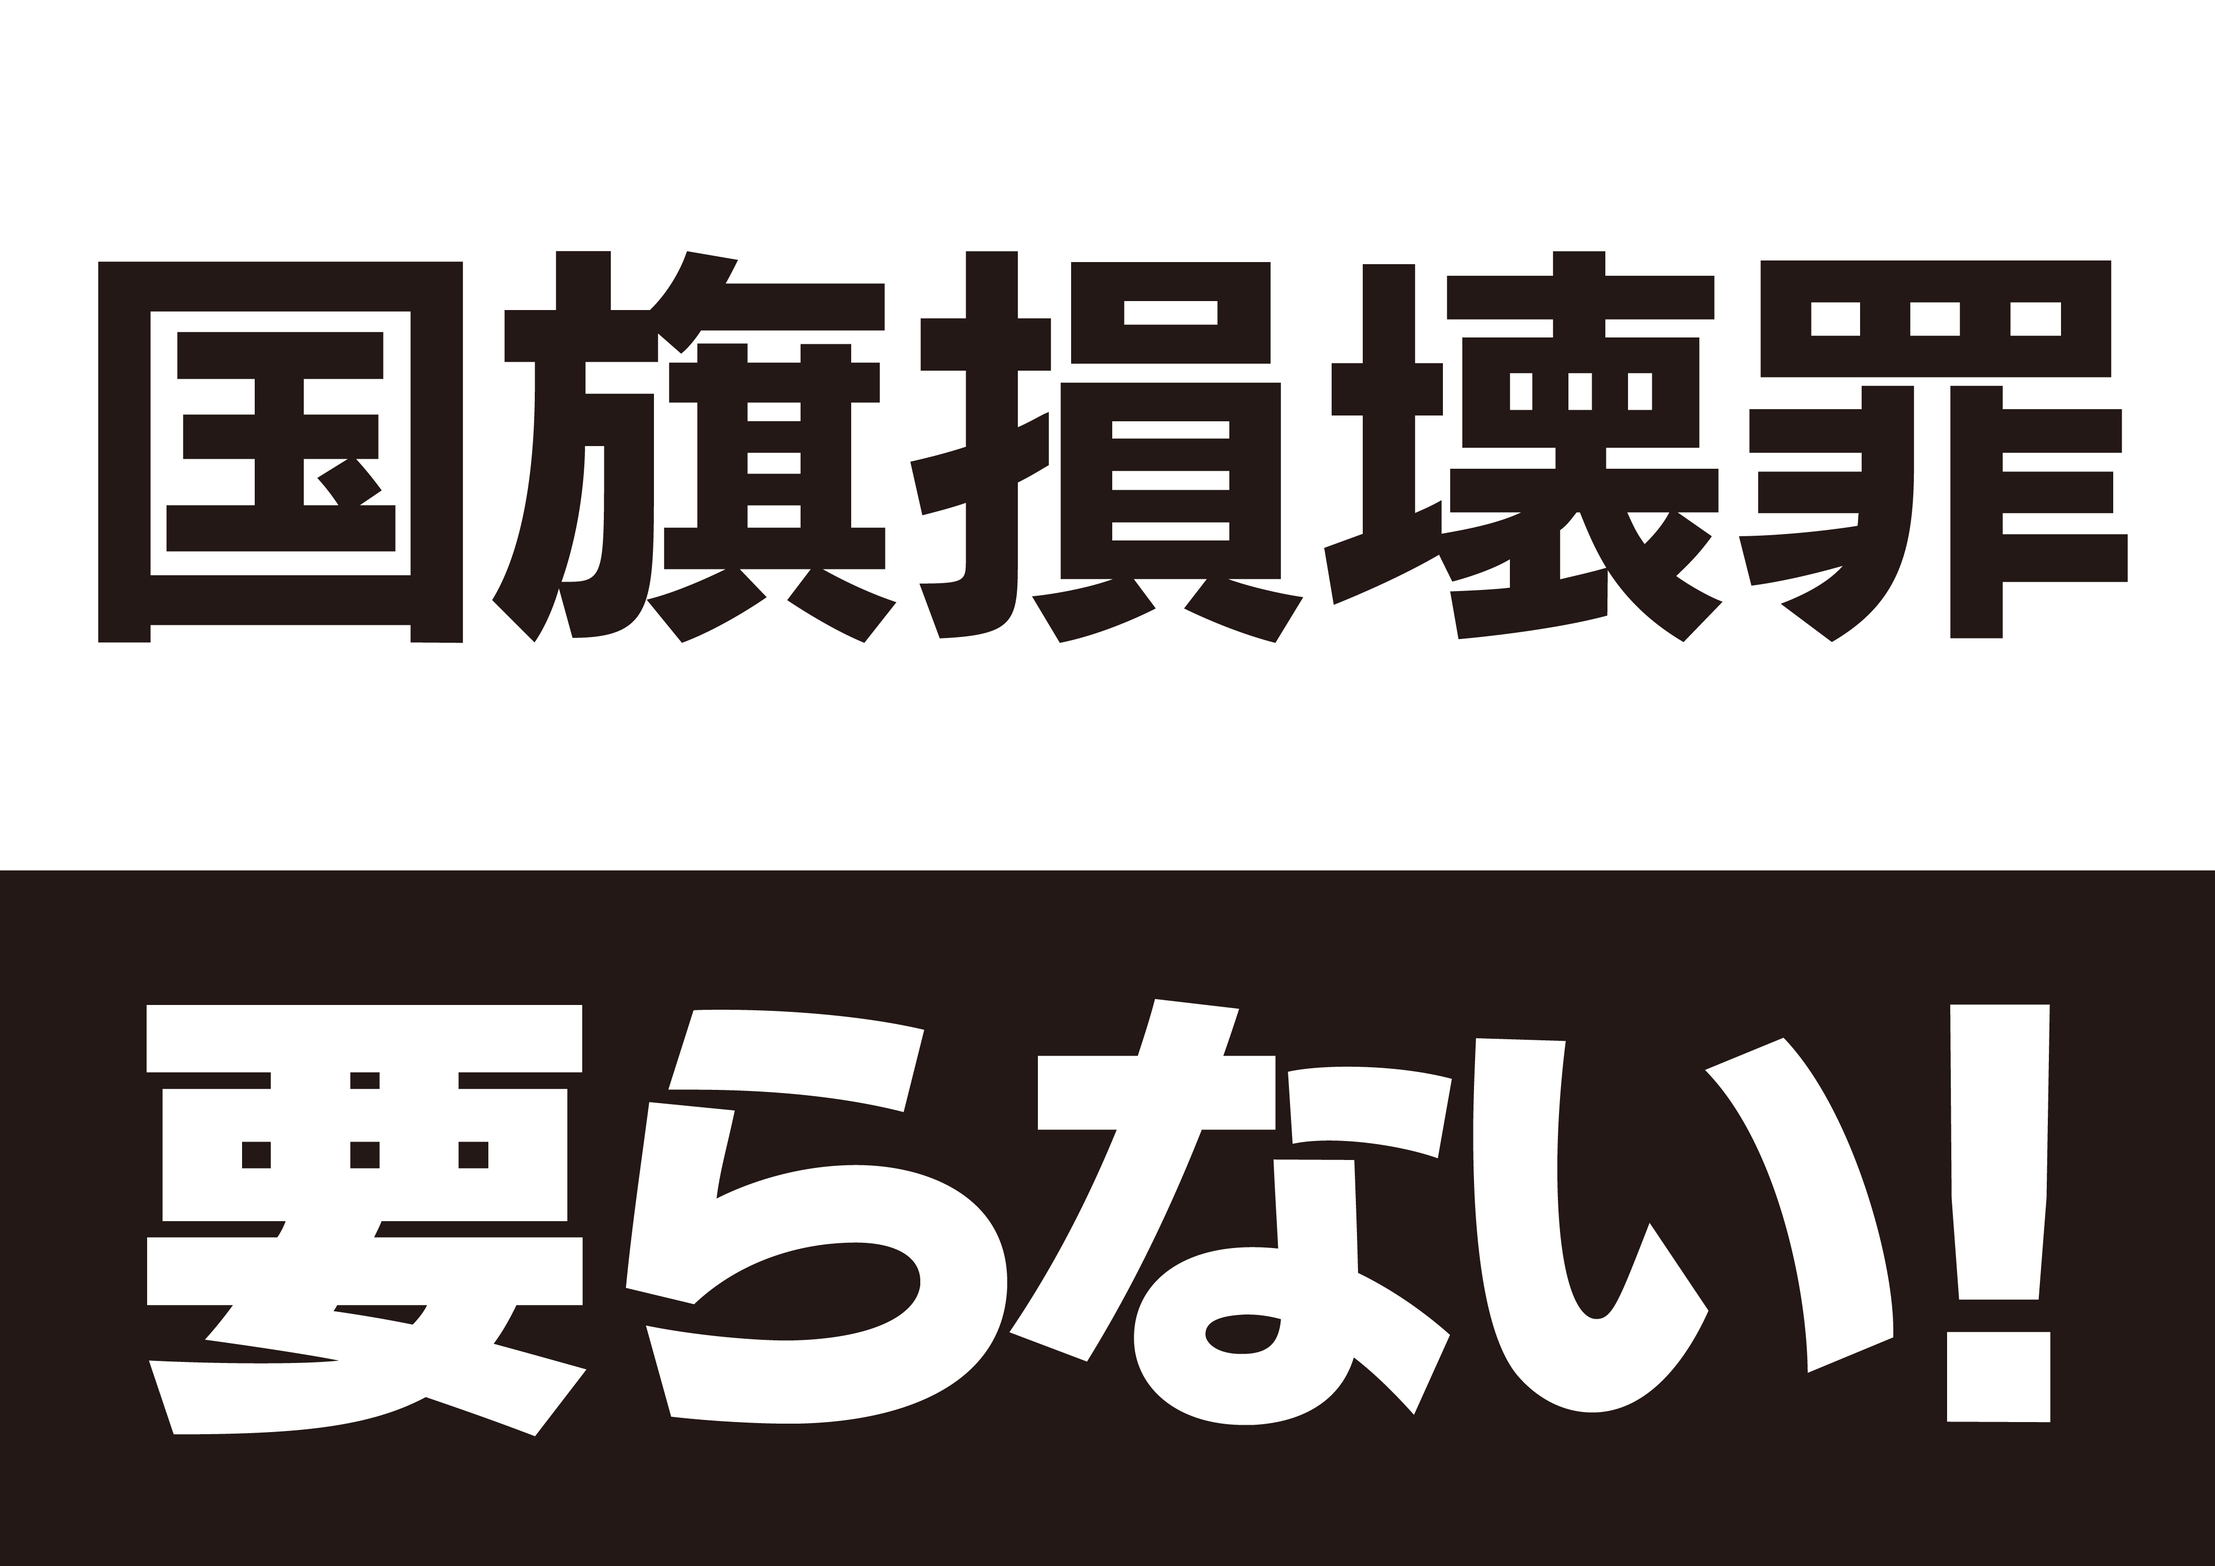
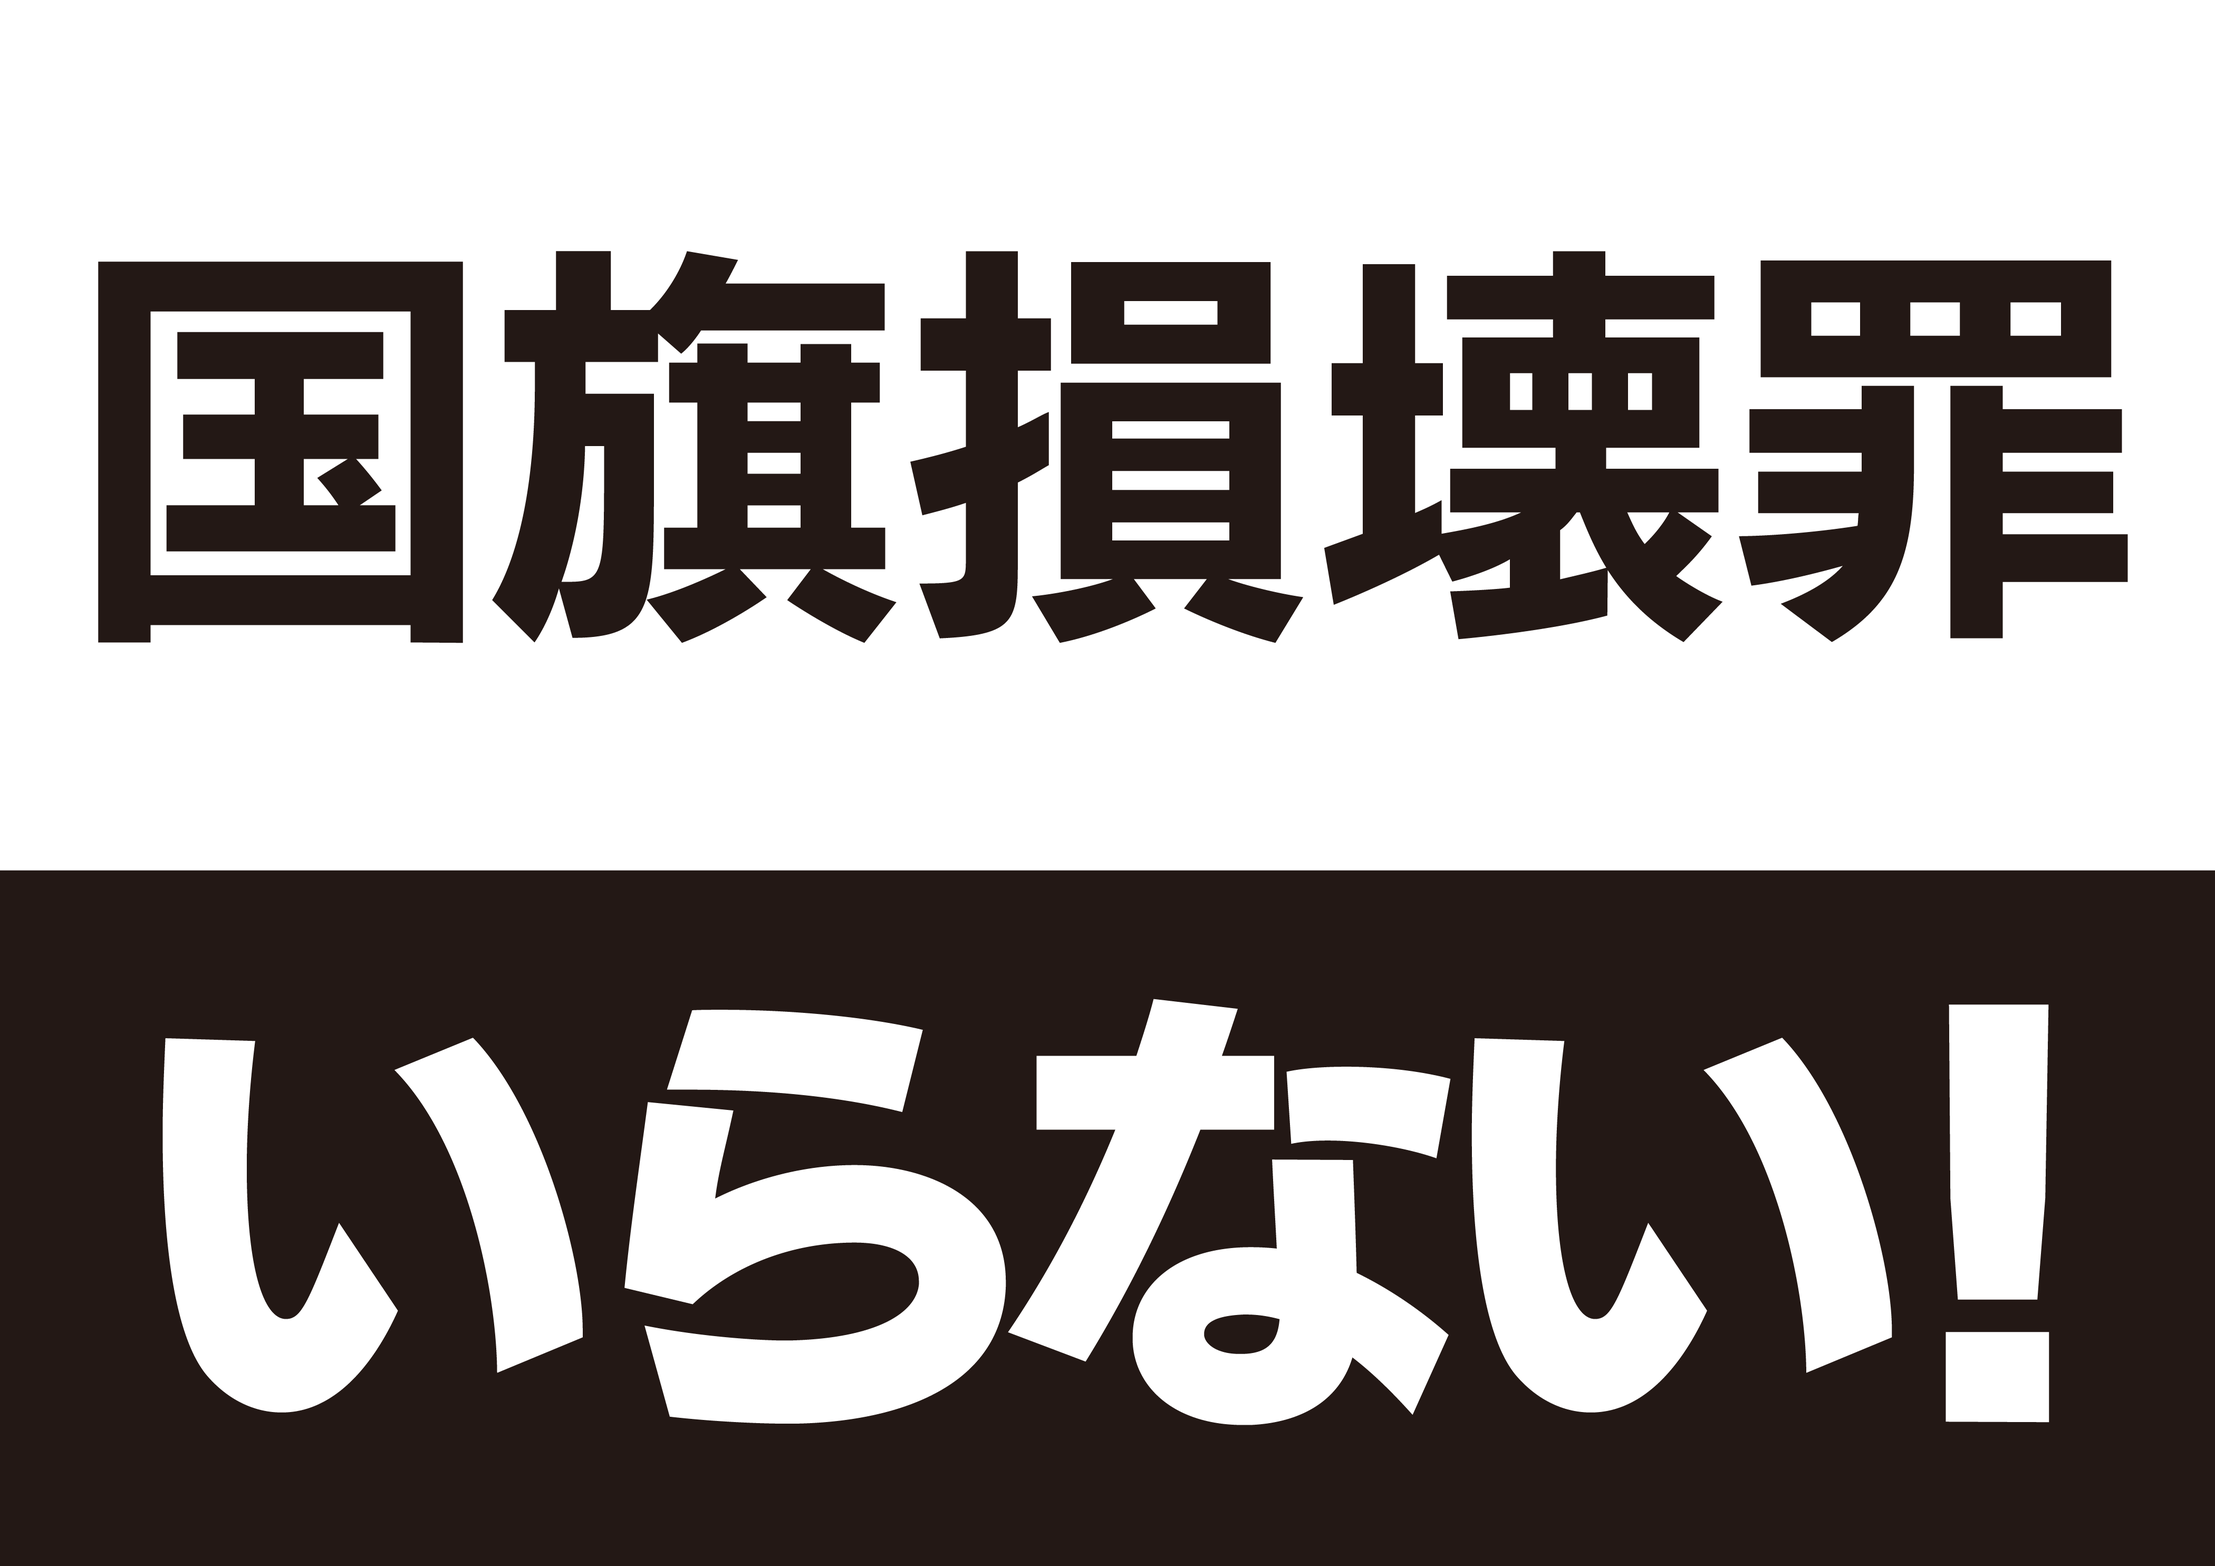
fix: force OGP cache refresh and optimize tag order

Changed region(s): [[0.0624, 0.6195, 0.2807, 0.9293]]

diff --git a/design/index.html b/design/index.html
@@ -19,18 +19,18 @@
   <meta name="description" content="デモや街頭宣伝で使えるプラカードデザイン。ダウンロード・印刷して自由に使用できます。">
 
   <!-- OGP -->
+  <meta name="twitter:card" content="summary_large_image">
   <meta property="og:site_name" content="Protest Hub">
   <meta property="og:title" id="og-title" content="Protest Hub Design Wall">
   <meta property="og:description" id="og-description" content="デモや街頭宣伝で使えるプラカードデザイン。ダウンロード・印刷して自由に使用できます。">
   <meta property="og:url" id="og-url" content="https://www.protesthub.jp/design/">
   <meta property="og:type" content="website">
-  <meta property="og:image" id="og-image" content="https://www.protesthub.jp/images/ogp.png">
+  <meta property="og:image" id="og-image" content="https://www.protesthub.jp/images/ogp.png?v=20260611">
 
   <!-- Twitter -->
-  <meta name="twitter:card" content="summary_large_image">
   <meta name="twitter:title" id="tw-title" content="Protest Hub Design Wall">
   <meta name="twitter:description" id="tw-description" content="デモや街頭宣伝で使えるプラカードデザイン。ダウンロード・印刷して自由に使用できます。">
-  <meta name="twitter:image" id="tw-image" content="https://www.protesthub.jp/images/ogp.png">
+  <meta name="twitter:image" id="tw-image" content="https://www.protesthub.jp/images/ogp.png?v=20260611">
 
   <link rel="icon" href="/favicon.png" type="image/png">
   <style>
@@ -723,15 +723,12 @@
       { file: "pl-000005-a.png", title: "戦争反対", desc: "2970×4200px　A3/A4兼用", cat: "反戦", tags: ["戦争反対", "縦", "日本語"], by: "protesthub_jp", url: "https://x.com/protesthub_jp", views: 275 },
       { file: "pl-000005-b.png", title: "戦争反対", desc: "2970×4200px　A3/A4兼用", cat: "反戦", tags: ["戦争反対", "縦", "日本語"], by: "protesthub_jp", url: "https://x.com/protesthub_jp", views: 168 },
       { file: "pl-000005-c.png", title: "戦争反対", desc: "2970×4200px　A3/A4兼用", cat: "反戦", tags: ["戦争反対", "縦", "日本語"], by: "protesthub_jp", url: "https://x.com/protesthub_jp", views: 134 },
-      { file: "pl-000006-a.png", title: "国旗損壊罪 要らない！", desc: "4200×2970px　A3/A4兼用", cat: "政治", tags: ["国旗損壊罪", "横", "政治"], by: "protesthub_jp", url: "https://x.com/protesthub_jp", views: 388 },
-      { file: "pl-000006-b.png", title: "武器輸出 やめろ!!", desc: "4200×2970px　A3/A4兼用", cat: "反戦", tags: ["武器輸出", "横", "反戦"], by: "protesthub_jp", url: "https://x.com/protesthub_jp", views: 456 },
-      { file: "pl-000006-c.png", title: "減税 早くしろ!", desc: "4200×2970px　A3/A4兼用", cat: "税", tags: ["減税", "横", "税"], by: "protesthub_jp", url: "https://x.com/protesthub_jp", views: 890 },
-      { file: "pl-000007-a.png", title: "国家情報局 要らない!", desc: "4200×2970px　A3/A4兼用", cat: "政治", tags: ["国家情報局", "横", "政治"], by: "protesthub_jp", url: "https://x.com/protesthub_jp", views: 212 },
-      { file: "pl-000007-b.png", title: "憲法改悪 やめろ!!", desc: "4200×2970px　A3/A4兼用", cat: "政治", tags: ["憲法", "横", "政治"], by: "protesthub_jp", url: "https://x.com/protesthub_jp", views: 567 },
-      { file: "pl-000007-c.png", title: "総辞職 早くしろ!", desc: "4200×2970px　A3/A4兼用", cat: "政治", tags: ["総辞職", "横", "政治"], by: "protesthub_jp", url: "https://x.com/protesthub_jp", views: 723 },
-      { file: "pl-000008-a.png", title: "要らない!", desc: "上半分に書きこめます。<br>4200×2970px　A3/A4兼用", cat: "政治", tags: ["短文", "横", "政治"], by: "protesthub_jp", url: "https://x.com/protesthub_jp", views: 189 },
-      { file: "pl-000008-b.png", title: "やめろ!!", desc: "上半分に書きこめます。<br>4200×2970px　A3/A4兼用", cat: "政治", tags: ["短文", "横", "政治"], by: "protesthub_jp", url: "https://x.com/protesthub_jp", views: 145 },
-      { file: "pl-000008-c.png", title: "早くしろ!", desc: "上半分に書きこめます。<br>4200×2970px　A3/A4兼用", cat: "政治", tags: ["短文", "横", "政治"], by: "protesthub_jp", url: "https://x.com/protesthub_jp", views: 231 },
+      { file: "pl-000006-a.png", title: "国旗損壊罪 いらない！", desc: "4200×2970px　A3/A4兼用", cat: "政治", tags: ["国旗損壊罪", "横", "政治"], by: "protesthub_jp", url: "https://x.com/protesthub_jp", views: 388 },
+      { file: "pl-000006-b.png", title: "武器輸出 やめて!!", desc: "4200×2970px　A3/A4兼用", cat: "反戦", tags: ["武器輸出", "横", "反戦"], by: "protesthub_jp", url: "https://x.com/protesthub_jp", views: 456 },
+      { file: "pl-000006-c.png", title: "減税 早くして!", desc: "4200×2970px　A3/A4兼用", cat: "税", tags: ["減税", "横", "税"], by: "protesthub_jp", url: "https://x.com/protesthub_jp", views: 890 },
+      { file: "pl-000008-a.png", title: "いらない!", desc: "上半分に書きこめます。<br>4200×2970px　A3/A4兼用", cat: "政治", tags: ["短文", "横", "政治"], by: "protesthub_jp", url: "https://x.com/protesthub_jp", views: 189 },
+      { file: "pl-000008-b.png", title: "やめて!!", desc: "上半分に書きこめます。<br>4200×2970px　A3/A4兼用", cat: "政治", tags: ["短文", "横", "政治"], by: "protesthub_jp", url: "https://x.com/protesthub_jp", views: 145 },
+      { file: "pl-000008-c.png", title: "早くして!", desc: "上半分に書きこめます。<br>4200×2970px　A3/A4兼用", cat: "政治", tags: ["短文", "横", "政治"], by: "protesthub_jp", url: "https://x.com/protesthub_jp", views: 231 },
       { file: "pl-000009-a.png", title: "議員定数 減らすな!", desc: "4200×2970px　A3/A4兼用", cat: "制度", tags: ["議員定数", "横", "制度"], by: "protesthub_jp", url: "https://x.com/protesthub_jp", views: 156 },
       { file: "pl-000009-b.png", title: "議員定数 減らすな!", desc: "4200×2970px　A3/A4兼用", cat: "制度", tags: ["議員定数", "横", "制度"], by: "protesthub_jp", url: "https://x.com/protesthub_jp", views: 112 },
       { file: "pl-000009-c.png", title: "議員定数 減らすな!", desc: "4200×2970px　A3/A4兼用", cat: "制度", tags: ["議員定数", "横", "制度"], by: "protesthub_jp", url: "https://x.com/protesthub_jp", views: 94 }

diff --git a/about.html b/about.html
@@ -18,19 +18,18 @@
   <title>初めての方へ | Protest Hub</title>
   <meta name="description" content="Protest Hubは、市民がプロテストに参加しやすくなる仕組みを作るためのプラットフォームです。">
 
-  <!-- OGP -->
+  <meta name="twitter:card" content="summary_large_image">
   <meta property="og:site_name" content="Protest Hub">
   <meta property="og:title" content="初めての方へ | Protest Hub">
   <meta property="og:description" content="Protest Hubは、市民がプロテストに参加しやすくなる仕組みを作るためのプラットフォームです。">
   <meta property="og:url" content="https://www.protesthub.jp/about.html">
   <meta property="og:type" content="article">
-  <meta property="og:image" content="https://www.protesthub.jp/images/ogp.png">
+  <meta property="og:image" content="https://www.protesthub.jp/images/ogp.png?v=20260611">
 
   <!-- Twitter -->
-  <meta name="twitter:card" content="summary_large_image">
   <meta name="twitter:title" content="初めての方へ | Protest Hub">
   <meta name="twitter:description" content="Protest Hubは、市民がプロテストに参加しやすくなる仕組みを作るためのプラットフォームです。">
-  <meta name="twitter:image" content="https://www.protesthub.jp/images/ogp.png">
+  <meta name="twitter:image" content="https://www.protesthub.jp/images/ogp.png?v=20260611">
 
   <link rel="icon" href="/favicon.png" type="image/png">
   <style>
@@ -118,14 +117,17 @@
     <h1>初めての方へ</h1>
 
     <h3>ProtestHubについて</h3>
-    <p>ProtestHubは、一人のデザイナーが「もっと市民がプロテストに参加しやすくなる仕組みがあったらいいのに」という思いから立ち上げたサイトです。</p>
+    <p>このサイトは、一人のデザイナーが「もっと市民がプロテストに参加しやすくなる仕組みがあったらいいのに」という思いから立ち上げたものです。</p>
 
     <p>
-      さまざまなデモに参加する中で、毎回プラカードのデザインを探して印刷することの大変さを感じていました。SNSで見かけた素敵なデザインも、時間とともに見失ってしまい、あとから探し出せないことがあります。また、ネットプリントの対応コンビニが近くになく、利用しづらいこともありました。
+      さまざまなデモに参加する中で、毎回プラカードのデザインを探して印刷することの大変さを感じていました。</br>SNSで見かけた素敵なデザインも、時間とともに見失ってしまったり、ネットプリントの対応コンビニが近くになく、利用しづらかったり。。
     </p>
 
-    <p>「必要なときに、必要なデザインへたどり着ける場所があったら…」</br>
-      そんな思いから、デモで使えるプラカードのデザインをひとつの場所に集め、誰でも検索・ダウンロードできるプラットフォームとしてProtestHubを作りました。</p>
+    <p>「必要なときに、必要なデザインへたどり着ける場所を」</br>
+      そんな思いから、デモで使えるプラカードのデザインをひとつに集め、誰でも検索・ダウンロードできるプラットフォームとしてProtestHubを作りました。</p>
+
+    <p>現在（6/11時点）掲載しているデザインはすべて管理人が制作したものですが、これからSNSで素敵なデザインを発信されている制作者の方々にお声がけし、許可をいただいた作品を少しずつ掲載していきたいと考えています。</br>
+      また、将来的には、掲載をご希望の方から作品を投稿いただける仕組みも整えていく予定です。</p>
 
     <p>まずはプラカードの共有からスタートしますが、これから少しずつ、市民が声を届けるためのさまざまな工夫や知恵が集まる場に育てていけたらと考えています。</p>
 
@@ -136,9 +138,10 @@
 
     <p>・テーマや制作者名から、プラカードのデザインを検索できます。</br>
       ・デザインデータをダウンロードし、印刷して利用できます。</br>
-      （A3とA4どちらにも対応できるサイズで制作されています）</br>
-      ・デザインのサムネイルをX・facebook・Instagramでシェアできます。</br>
-      ・制作者のSNSリンクから、他の作品や活動を知ることができます。</p>
+      （A3とA4の両方に対応できるサイズで制作されています）</br>
+      ・制作者のSNSリンクから、他の作品や活動を知ることができます。</br>
+      ・デザインをX・facebook・Instagramでシェアできます。</br>
+      （6/11…Xでサムネ不具合のため、投稿時はURLに画像も添付ください）</p>
 
     <h3>ご利用にあたって</h3>
 

diff --git a/index.html b/index.html
@@ -18,19 +18,18 @@
   <title>ProtestHub</title>
   <meta name="description" content="デモや街頭宣伝で使えるプラカードデザイン。ダウンロード・印刷して自由に使用できます。">
 
-  <!-- OGP -->
+  <meta name="twitter:card" content="summary_large_image">
   <meta property="og:site_name" content="Protest Hub">
   <meta property="og:title" content="Protest Hub">
   <meta property="og:description" content="デモや街頭宣伝で使えるプラカードデザイン。ダウンロード・印刷して自由に使用できます。">
   <meta property="og:url" content="https://www.protesthub.jp/">
   <meta property="og:type" content="website">
-  <meta property="og:image" content="https://www.protesthub.jp/images/ogp.png">
+  <meta property="og:image" content="https://www.protesthub.jp/images/ogp.png?v=20260611">
 
   <!-- Twitter -->
-  <meta name="twitter:card" content="summary_large_image">
   <meta name="twitter:title" content="Protest Hub">
   <meta name="twitter:description" content="デモや街頭宣伝で使えるプラカードデザイン。ダウンロード・印刷して自由に使用できます。">
-  <meta name="twitter:image" content="https://www.protesthub.jp/images/ogp.png">
+  <meta name="twitter:image" content="https://www.protesthub.jp/images/ogp.png?v=20260611">
 
   <link rel="icon" href="/favicon.png" type="image/png">
   <meta http-equiv="refresh" content="0;url=design/index.html">
